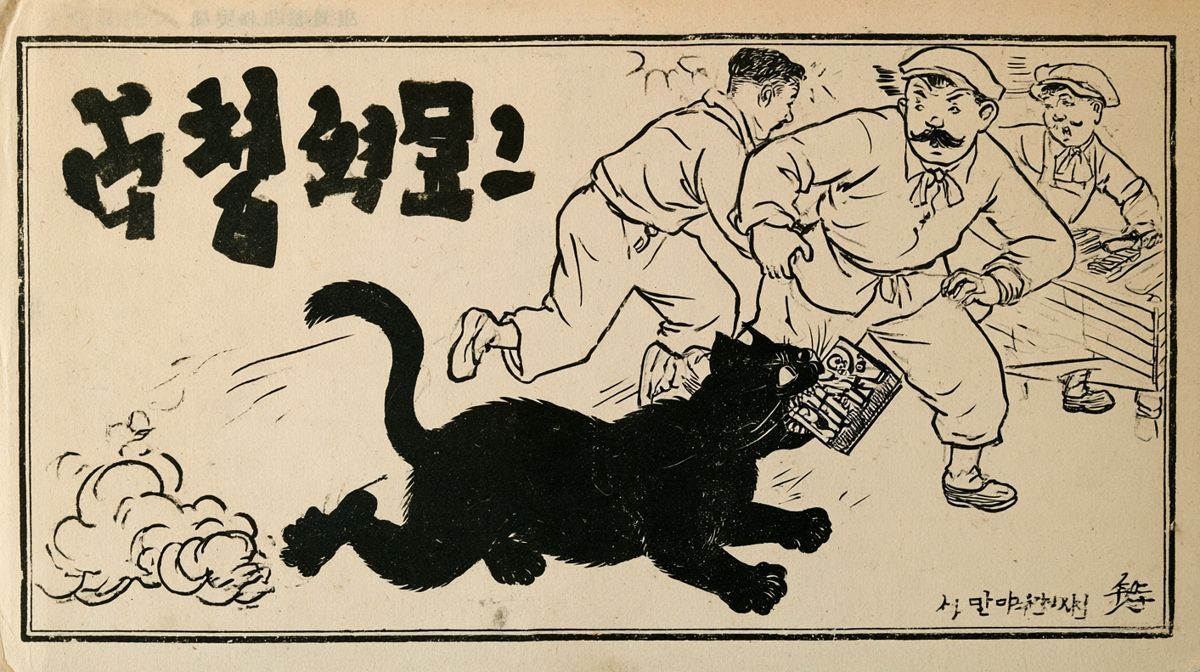
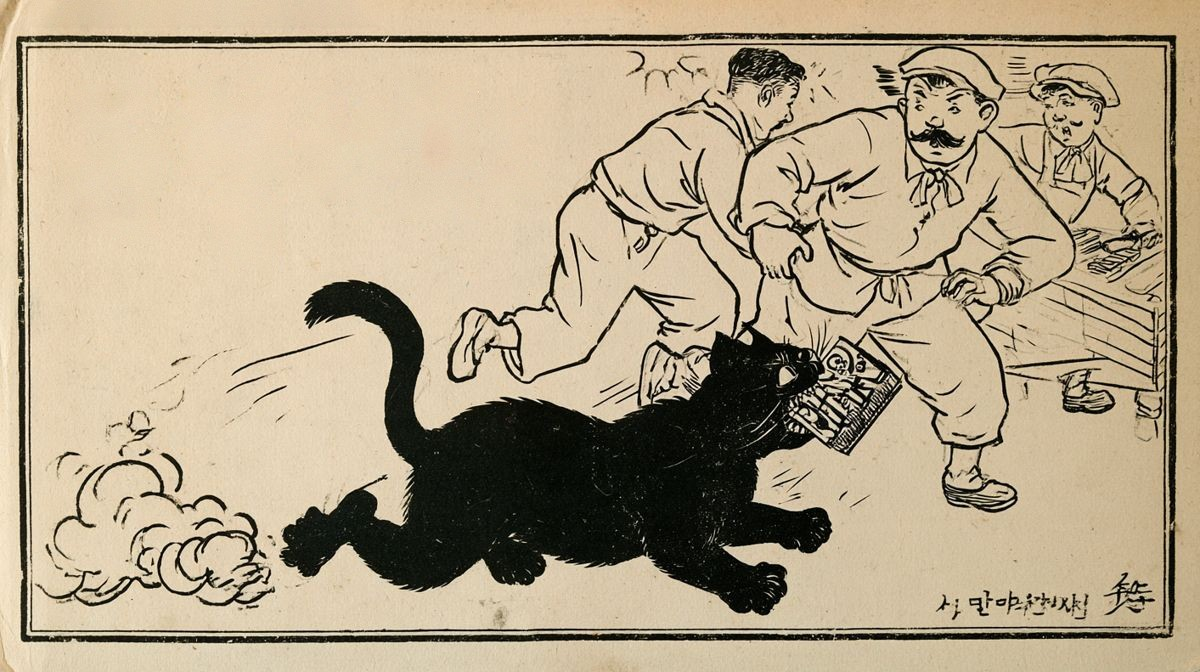
seek PC: match new illustrations to sepia tone, remove fake lettering
Claude-Session: https://claude.ai/code/session_01X1y5x5ur2CZT5SHiYxRsCA

Changed region(s): [[0.0308, 0.0938, 0.4625, 0.4062]]

diff --git a/seek.html b/seek.html
@@ -13,7 +13,7 @@
 <link rel="stylesheet" href="case-jukcheomjeong/assets/jukcheom.css">
 <link rel="stylesheet" href="shop.css?v=5">
 <link rel="stylesheet" href="newsroom.css?v=3">
-<link rel="stylesheet" href="seek.css?v=21">
+<link rel="stylesheet" href="seek.css?v=22">
 </head><body><div class="archive-page shop-page sk-pg">
 <div class="mh"><div class="topbar"><span class="kicker"><span class="hj" tabindex="0" data-ko="기이한 사건 문고">괴사 문고</span> · <b><span class="hj" tabindex="0" data-ko="여름밤 괴담 특집">납량 특집</span></b></span><nav aria-label="주 메뉴"><a href="index.html"><span class="hj" tabindex="0" data-ko="사건 기록">사건 긔록</span></a><a href="index.html#index"><span class="hj" tabindex="0" data-ko="신문 자료실">신문 문고</span></a><a href="fair.html"><span class="hj" tabindex="0" data-ko="부록 전시관">부록 박람회</span></a><a href="newsroom.html"><span class="hj" tabindex="0" data-ko="편집국">편집국</span></a><a href="about.html"><span class="hj" tabindex="0" data-ko="경성야록 소개">야록 소개</span></a><a href="index.html#find" class="search" aria-label="검색"><svg width="16" height="16" viewBox="0 0 16 16" fill="none" stroke="currentColor" stroke-width="1.4"><circle cx="7" cy="7" r="5.5"></circle><path d="M11 11l4 4"></path></svg></a></nav></div><header class="masthead"><div class="side left"><div class="seal" aria-hidden="true"><span>京</span><span>城</span><span>野</span><span>錄</span></div><p><span class="hj" tabindex="0" data-ko="잊힌 신문 한 줄에서">니저진 신문 한 줄에서</span><br><span class="hj" tabindex="0" data-ko="다시 깨어나는">다시 깨여나는</span><br><span class="hj" tabindex="0" data-ko="경성의 이야기">경성의 이약이</span></p></div><a class="title" href="index.html" title="경성야록 본지로" style="color: inherit; text-decoration: none;"><div class="tl-row"><svg class="mark" viewBox="0 0 100 100" aria-hidden="true"><defs><clipPath id="lgCs"><circle cx="50" cy="50" r="49"></circle></clipPath><mask id="lgRings"><rect width="100" height="100" fill="#000"></rect><circle cx="50" cy="50" r="49" fill="#fff"></circle><circle cx="32.4" cy="50" r="52.6" fill="#000"></circle></mask></defs><g clip-path="url(#lgCs)" fill="currentColor"><rect x="4" y="0" width="2.7" height="100"></rect><rect x="8.6" y="0" width="2.7" height="100"></rect><rect x="13.2" y="0" width="2.7" height="100"></rect><rect x="17.799999999999997" y="0" width="2.7" height="100"></rect><rect x="22.4" y="0" width="2.7" height="100"></rect><rect x="27" y="0" width="2.7" height="100"></rect><rect x="31.599999999999998" y="0" width="2.7" height="100"></rect><rect x="36.199999999999996" y="0" width="2.7" height="100"></rect><rect x="40.8" y="0" width="2.7" height="100"></rect><rect x="45.4" y="0" width="2.7" height="100"></rect></g><rect x="47.6" y="0.6" width="3.4" height="98.8" fill="var(--seal)"></rect><g mask="url(#lgRings)" fill="currentColor"><rect x="54" y="1.5" width="46" height="2.5"></rect><rect x="54" y="6" width="46" height="2.5"></rect><rect x="54" y="10.5" width="46" height="2.5"></rect><rect x="54" y="15" width="46" height="2.5"></rect><rect x="54" y="19.5" width="46" height="2.5"></rect><rect x="54" y="24" width="46" height="2.5"></rect><rect x="54" y="28.5" width="46" height="2.5"></rect><rect x="54" y="33" width="46" height="2.5"></rect><rect x="54" y="37.5" width="46" height="2.5"></rect><rect x="54" y="42" width="46" height="2.5"></rect><rect x="54" y="46.5" width="46" height="2.5"></rect><rect x="54" y="51" width="46" height="2.5"></rect><rect x="54" y="55.5" width="46" height="2.5"></rect><rect x="54" y="60" width="46" height="2.5"></rect><rect x="54" y="64.5" width="46" height="2.5"></rect><rect x="54" y="69" width="46" height="2.5"></rect><rect x="54" y="73.5" width="46" height="2.5"></rect><rect x="54" y="78" width="46" height="2.5"></rect><rect x="54" y="82.5" width="46" height="2.5"></rect><rect x="54" y="87" width="46" height="2.5"></rect><rect x="54" y="91.5" width="46" height="2.5"></rect><rect x="54" y="96" width="46" height="2.5"></rect></g></svg><h1>경성야록</h1></div><p class="hanja">京城野錄</p></a><div class="side right today"><p class="t-date"><span class="hj" tabindex="0">소화 십일 년 시월 칠일 수요일</span></p><p class="t-now"><span class="hj" tabindex="0">시방 오후 한 시 오십삼 분</span></p><p class="t-ago">1936 · 90년 전 오늘날</p><p class="t-head"><span class="hj" tabindex="0" data-ko="이날 본보는 발행되지 못했다 — 정간 중">이날 본보는 발행되지 못하엿다 — 정간 중</span></p></div></header><div class="tagline"><p><span class="hj" tabindex="0" data-ko="밤이 깊어지면 잊힌 사건이 깨어나리라">밤이 깁허지면 니저진 사건이 깨여나나니라</span></p><span><span class="hj" tabindex="0" data-ko="신문 한 줄에서 시작되는 경성의 기이한 이야기">신문 한 줄로부터 비롯하는 경성의 괴사</span></span></div><nav class="sections" aria-label="지면 분류"><div class="idx"><span class="hj" tabindex="0" data-ko="신문 면">지면</span><br><span class="hj" tabindex="0" data-ko="차례">목차</span></div><a href="index.html" class="sec-btn" aria-pressed="false"><b>全面</b><small>온 지면</small></a><a href="index.html#sec=사회" class="sec-btn" aria-pressed="false"><b>社會</b><small>사회</small></a><a href="index.html#sec=경제" class="sec-btn" aria-pressed="false"><b>經濟</b><small>경제</small></a><a href="index.html#sec=문화예술" class="sec-btn" aria-pressed="false"><b>文化藝術</b><small>문화예술</small></a><a class="search-inline" href="index.html#find"><svg width="18" height="18" viewBox="0 0 16 16" fill="none" stroke="currentColor" stroke-width="1.3"><circle cx="7" cy="7" r="5.5"></circle><path d="M11 11l4 4"></path></svg><small><span class="hj" tabindex="0" data-ko="기록 찾아보기">긔록 차저보기</span></small></a></nav></div>
 <!-- ═══ 심인 광고면 : 사람을 차즘 ═══ -->

diff --git a/seek.css b/seek.css
@@ -341,3 +341,6 @@
 .sk-mini{margin:8px 0 10px;position:relative}
 .sk-mini img{display:block;width:100%;border:1px solid var(--ink,#1e1913);filter:sepia(.15) contrast(1.05)}
 .sk-mini figcaption{position:absolute;right:6px;bottom:6px;padding:2px 6px;background:rgba(30,25,19,.75);color:#efe3c8;font-size:10px;letter-spacing:.12em}
+
+.sk-mini img{filter:grayscale(1) sepia(.35) contrast(1.15) brightness(.93)!important;mix-blend-mode:multiply}
+.sk-mini figcaption{background:rgba(30,25,19,.82)}

diff --git a/m-seek.html b/m-seek.html
@@ -12,7 +12,7 @@
 <link rel="icon" type="image/svg+xml" href="case-baekbaekgyo/favicon.svg">
 <link rel="stylesheet" href="case-jukcheomjeong/fonts/fonts.css">
 <link rel="stylesheet" href="yk-mbook.css?v=11">
-<link rel="stylesheet" href="seek.css?v=21">
+<link rel="stylesheet" href="seek.css?v=22">
 <link rel="stylesheet" href="m-seek.css?v=2">
 </head>
 <body class="msk">
